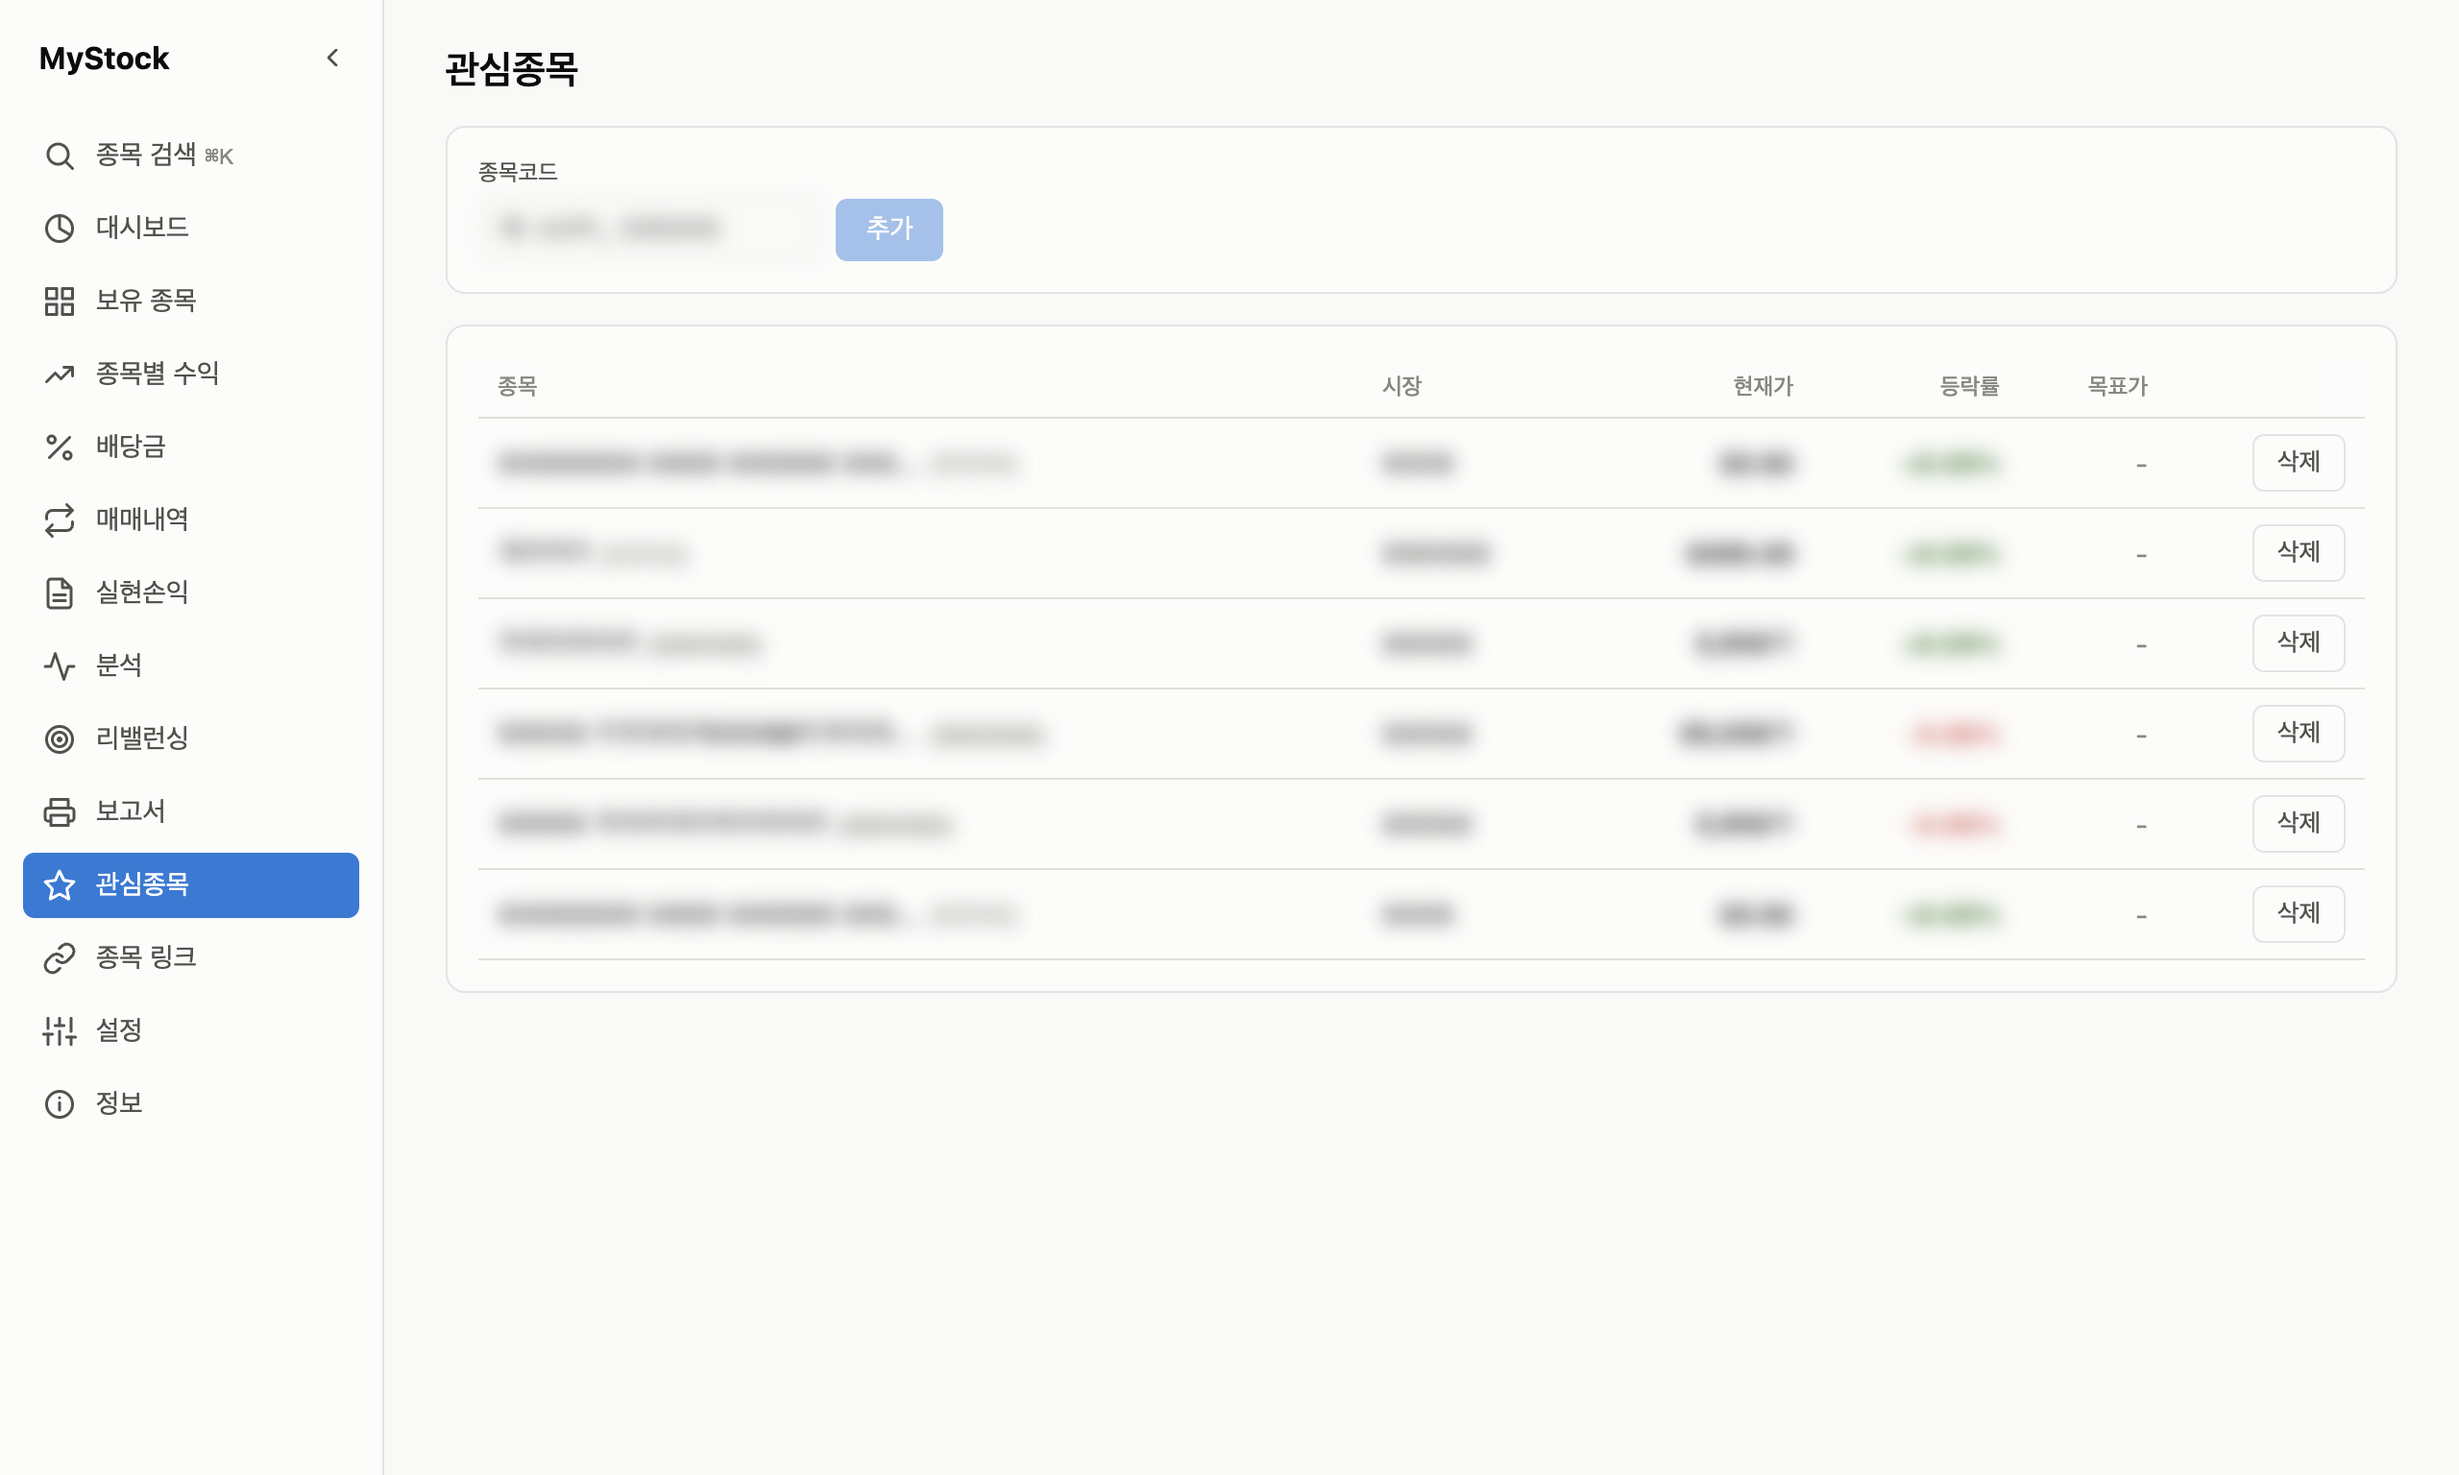
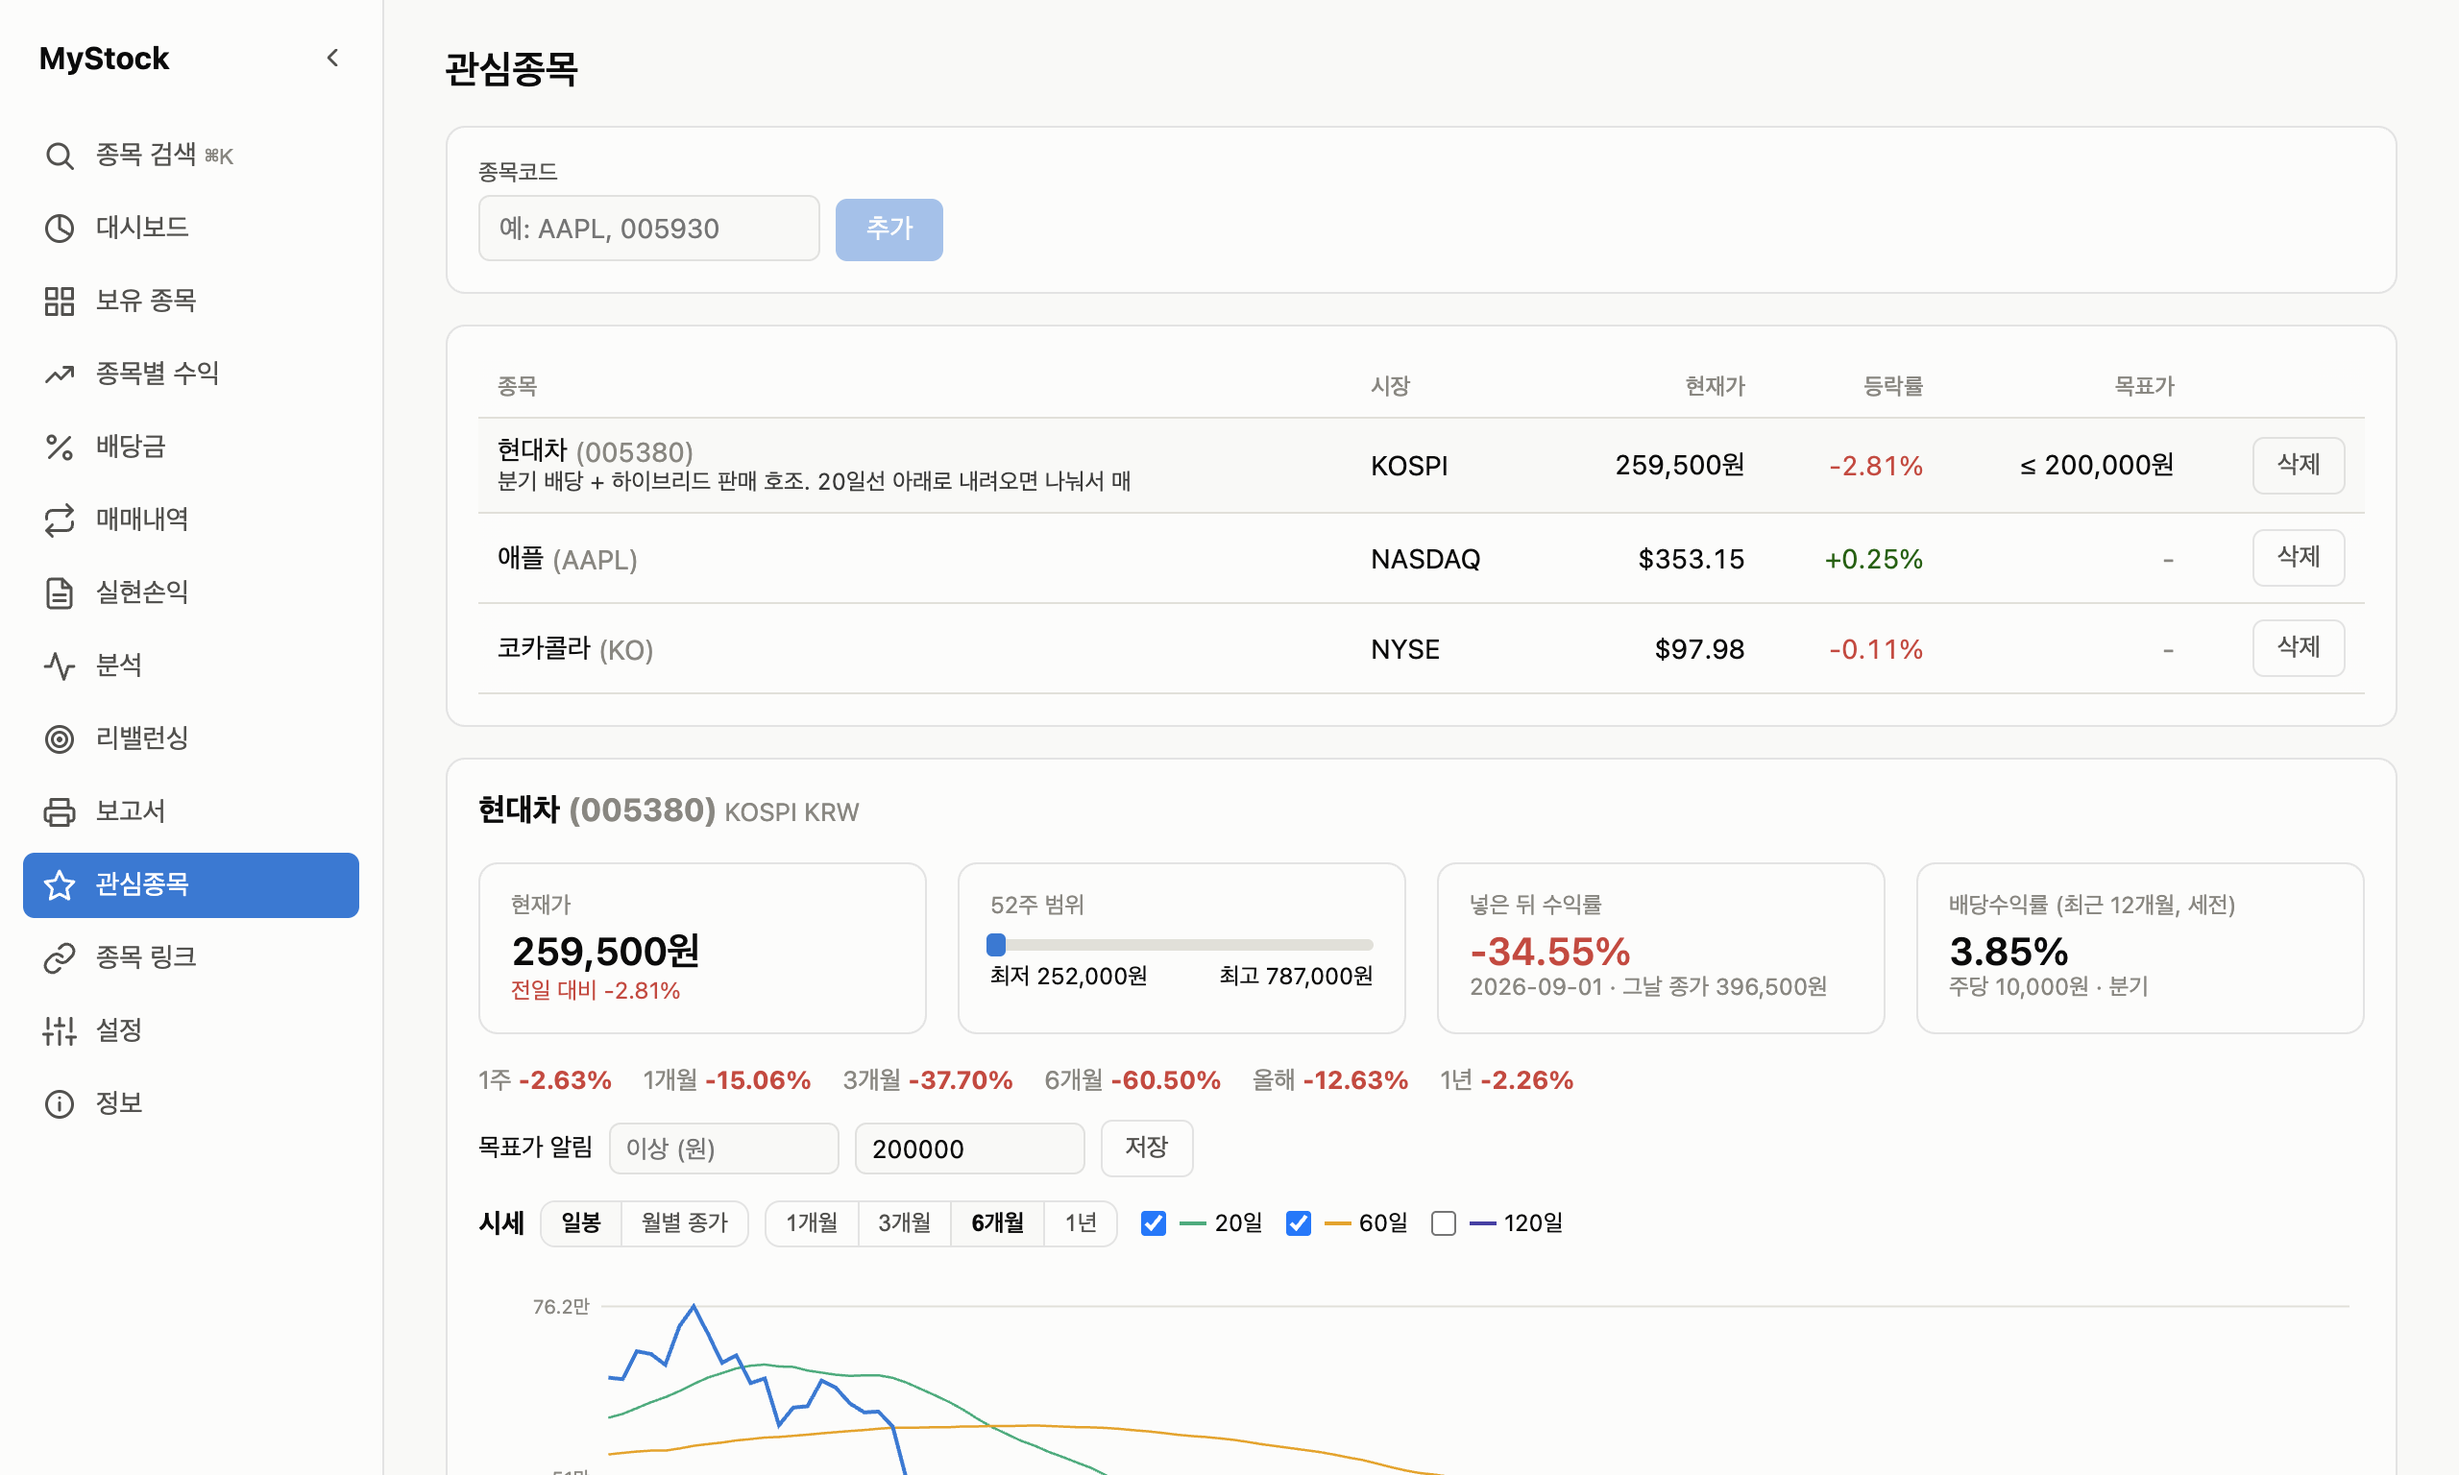
fix: 토스 일봉을 실제 가격(adjusted=false)으로 — 월별 종가·직전 종가, 월별 종가 캐시 v2; 관심종목 상세 스크린샷·매뉴얼, 차트 눈금·목표가 글자 겹침

diff --git a/backend/src/db/monthlyCloseCache.ts b/backend/src/db/monthlyCloseCache.ts
@@ -1,8 +1,10 @@
+import fs from 'node:fs';
+import path from 'node:path';
 import { getDataDir } from '../paths';
 import { JsonStore } from '../jsonStore';
 
 /**
- * 종목별 "이미 확정된 달"의 월별 종가 영구 캐시(`monthly-close-cache.json`) —
+ * 종목별 "이미 확정된 달"의 월별 종가 영구 캐시(`monthly-close-cache-v2.json` — 실제 가격) —
  * `tossClient.ts`의 `fetchTossMonthlyClosePrices` 전용. 지나간 달의 마지막
  * 거래일 종가는 다시 바뀌지 않으므로(fx/eximbankCache.ts의 과거 날짜 환율과 같은
  * 논리) 한 번 받아두면 앱을 재시작해도 과거 페이지를 다시 페이지네이션하지 않고
@@ -21,8 +23,21 @@ export interface CachedSymbolCloses {
 
 type MonthlyCloseCacheFile = Record<string, CachedSymbolCloses>;
 
+// v2(2026-11-19): **실제 가격(`adjusted=false`)** 종가. 예전 `monthly-close-cache.json`은 토스 기본값(수정주가)이라 분배금 많은 ETF의 지난 달
+// 종가가 낮게 들어 있다 — 새 파일로 다시 받고 옛 파일은 처음 열 때 지운다(그대로 두면 백업에 쓸모없는 사본이 따라간다).
+const LEGACY_FILE = 'monthly-close-cache.json';
+let legacyRemoved = false;
+
 function store() {
-  return new JsonStore<MonthlyCloseCacheFile>('monthly-close-cache.json', getDataDir(), {});
+  if (!legacyRemoved) {
+    legacyRemoved = true;
+    try {
+      fs.rmSync(path.join(getDataDir(), LEGACY_FILE), { force: true });
+    } catch {
+      // 못 지워도 안 읽으니 상관없다
+    }
+  }
+  return new JsonStore<MonthlyCloseCacheFile>('monthly-close-cache-v2.json', getDataDir(), {});
 }
 
 // 아직 디스크에 안 쓴 새 캐시 항목 — fx/eximbankCache.ts와 같은 이유로 둔다.

diff --git a/backend/src/brokers/toss/tossMonthlyClose.ts b/backend/src/brokers/toss/tossMonthlyClose.ts
@@ -145,7 +145,7 @@ export async function fetchTossMonthlyClosePrices(
 
   try {
     if (cached && cached.coveredFrom <= requiredFrom) {
-      const { candles } = await fetchTossDailyCandlesPage(symbol, undefined, opts);
+      const { candles } = await fetchTossDailyCandlesPage(symbol, undefined, opts, false);
       mergePage(candles);
       const merged = new Map<string, { closePrice: number; currency: string }>(Object.entries(cached.months));
       for (const [month, c] of byMonth) merged.set(month, c);
@@ -163,7 +163,7 @@ export async function fetchTossMonthlyClosePrices(
     // 캐시 경로(최신 1페이지)만 탄다.
     const maxPages = Math.min(80, Math.max(5, Math.ceil(months / 9) + 2));
     for (let page = 0; page < maxPages; page++) {
-      const { candles, nextBefore } = await fetchTossDailyCandlesPage(symbol, before, opts);
+      const { candles, nextBefore } = await fetchTossDailyCandlesPage(symbol, before, opts, false);
       if (candles.length === 0) {
         reachedStart = page > 0;
         break;
@@ -224,7 +224,7 @@ export function previousCloseFrom(
 export async function fetchTossPreviousClose(symbol: string, priceTimeIso: string | null): Promise<number | null> {
   if (!isTossConfigured()) return null;
   try {
-    const { candles } = await fetchTossDailyCandlesPage(symbol, undefined);
+    const { candles } = await fetchTossDailyCandlesPage(symbol, undefined, {}, false);
     return previousCloseFrom(candles, priceTimeIso ? new Date(priceTimeIso) : new Date());
   } catch {
     return null;

diff --git a/frontend/src/pages/watchlist/DailyPriceChart.tsx b/frontend/src/pages/watchlist/DailyPriceChart.tsx
@@ -101,7 +101,8 @@ export default function DailyPriceChart({
           return (
             <g key={t.key}>
               {inRange && <line x1={Y_AXIS} x2={width - RIGHT} y1={ty} y2={ty} stroke="var(--text-muted)" strokeDasharray="4 3" />}
-              <text x={width - RIGHT - 2} y={inRange ? ty - 4 : ty} textAnchor="end" fontSize={10} fill="var(--text-secondary)">
+              {/* 범위 밖이면 축 바로 옆 위·아래 귀퉁이에(오른쪽 끝은 최근 가격 선과 겹친다) */}
+              <text x={inRange ? width - RIGHT - 2 : Y_AXIS + 4} y={inRange ? ty - 4 : t.v > max ? TOP - 2 : TOP + PRICE_H + 8} textAnchor={inRange ? 'end' : 'start'} fontSize={10} fill="var(--text-secondary)">
                 {inRange ? '' : t.v > max ? '↑ ' : '↓ '}목표 {t.sign} {fmtPrice(t.v, currency)}
               </text>
             </g>

diff --git a/frontend/src/pages/watchlist/CompareChart.tsx b/frontend/src/pages/watchlist/CompareChart.tsx
@@ -41,7 +41,8 @@ export default function CompareChart({ series }: { series: CompareSeries[] }) {
   const idx = new Map(dates.map((d, i) => [d, i]));
   const x = (i: number) => Y_AXIS + (i / (dates.length - 1)) * plotW;
   const y = (v: number) => TOP + H - ((v - min) / (max - min)) * H;
-  const ticks = [min + pad, 0, max - pad].filter((v, i, a) => a.indexOf(v) === i);
+  // 0%와 너무 가까운 끝 눈금은 뺀다(글자가 겹친다)
+  const ticks = [min + pad, 0, max - pad].filter((v, i, a) => a.indexOf(v) === i && (v === 0 || Math.abs(v) > (max - min) * 0.12));
   const labelEvery = Math.max(1, Math.ceil(dates.length / 6));
 
   return (

diff --git a/backend/CLAUDE.md b/backend/CLAUDE.md
@@ -765,8 +765,9 @@ ISA/연금저축/IRP 계좌를 표시해두는 작은 `JsonStore`(`account-tax-t
   그날, 테스트 있음). 관심종목이 아닌 종목(비교 기준 KODEX 200 `069500`·`SPY`)도 받는다. 토스 키가 없으면 409.
   ⚠ **`adjusted=false`(실제 가격)로 받는다** — 토스 기본은 **수정주가**다(2026-11-19 실측: 매달 분배하는 국내 ETF는 과거 종가가 그동안의 분배금만큼
   낮게 오고(10개월 전 봉이 약 8% 차이), `SPY`·삼성전자는 같았다). 수정주가로 그리면 내 매수가(▲)가 과거로 갈수록 선 위로 떠서 어긋났다.
-  ⚠ **월별 종가(`fetchTossMonthlyClosePrices`)와 직전 종가(`fetchTossPreviousClose`)는 아직 기본값(수정주가)이다** — 대시보드의 월별 평가금액은 분배금
-  많은 ETF의 과거 달이 낮게 잡힐 수 있다(디스크 캐시가 있어 바꾸려면 캐시도 비워야 함, 미결).
+  **월별 종가(`fetchTossMonthlyClosePrices`)·직전 종가(`fetchTossPreviousClose`)도 같은 날 실제 가격으로 바꿨다** — 그 전엔 대시보드 월별 평가금액에서
+  분배금 많은 ETF의 지난 달이 낮게 잡혔다. 디스크 캐시는 `monthly-close-cache-v2.json`으로 새로 받고 옛 `monthly-close-cache.json`(수정주가)은 처음 열 때 지운다.
+  **토스 일봉을 새로 부를 땐 `adjusted=false`를 꼭 준다.**
 - `GET /api/watchlist/:symbol/dividends?currency=KRW|USD` — `getSymbolDividends`(`upcomingDividends.ts`): 다가오는 배당과 **같은 원본**(국내 예탁원 일정 /
   미국 ICE + 기간별권리)을 종목 하나로 받아 지난 1년여(`history`, 기준일 오늘 이전)와 `planSymbolDividends`로 앞으로 12개월(`upcoming`). 6시간 캐시, KIS 키 없으면 409.
   주 단위 분배 ETF는 `planSymbolDividends`의 주기 추정이 월 단위라 "다음 배당"이 두어 건만 나온다(다가오는 배당 화면과 같은 한계).
@@ -935,7 +936,7 @@ USD/KRW 환율은 **토스 → 한국수출입은행 순으로 시도한다**(`r
   종목 수만큼 API 호출이 늘어나므로(종목당 1~2페이지), 이미 다른 화면보다 호출량이
   많다고 문서화된 `Overview.tsx`의 특성이 여기서 한 번 더 커진다.
 - **확정된 달(지난달보다 이전)의 종가는 디스크에 영구 캐시한다**
-  (`db/monthlyCloseCache.ts`, `monthly-close-cache.json`) — 캐시가 요청 범위를
+  (`db/monthlyCloseCache.ts`, `monthly-close-cache-v2.json` — 실제 가격, 2026-11-19 전 파일은 수정주가라 버림) — 캐시가 요청 범위를
   덮으면(`coveredFrom`) 최신 일봉 한 페이지만 받아 합친다, 앱 재시작 후에도 종목당
   1페이지. 지난달은 한국 시간 1일 새벽 미국장 마감 전엔 미확정일 수 있어 일부러
   캐시하지 않는다(최신 페이지에 항상 포함돼 추가 비용 없음). **디스크 기록은

diff --git a/CHANGELOG.md b/CHANGELOG.md
@@ -11,6 +11,7 @@ MyStock의 버전별 변경 사항입니다. 설치 파일은 [GitHub Releases](
   - 같은 기간 수익률을 코스피 200·S&P 500, 다른 관심종목(최대 2개)과 겹쳐 비교합니다.
   - 지난 배당과 다음 배당(발표·추정), 내 매매 기록과 판 뒤 수익률, "만약 지금 산다면"(몇 주·내 포트폴리오 비중), 메모.
   - 미국 종목도 PER·PBR·EPS·시가총액·52주 최고·최저를 보여 줍니다(한국투자증권 키 필요).
+- **실제 거래 가격으로 통일**: 대시보드의 월별 평가금액·누적 수익률, 관심종목의 월별 종가·등락률이 토스증권의 분배금 반영(수정) 가격을 쓰고 있어서, 분배금이 많은 ETF는 지난 달 금액이 낮게 나왔습니다. 이제 실제 거래 가격을 씁니다(업데이트 후 처음 한 번은 월별 종가를 다시 받느라 대시보드 그래프가 몇 초 늦게 채워집니다).
 
 ## v1.5.0 — 2026-11-19
 
